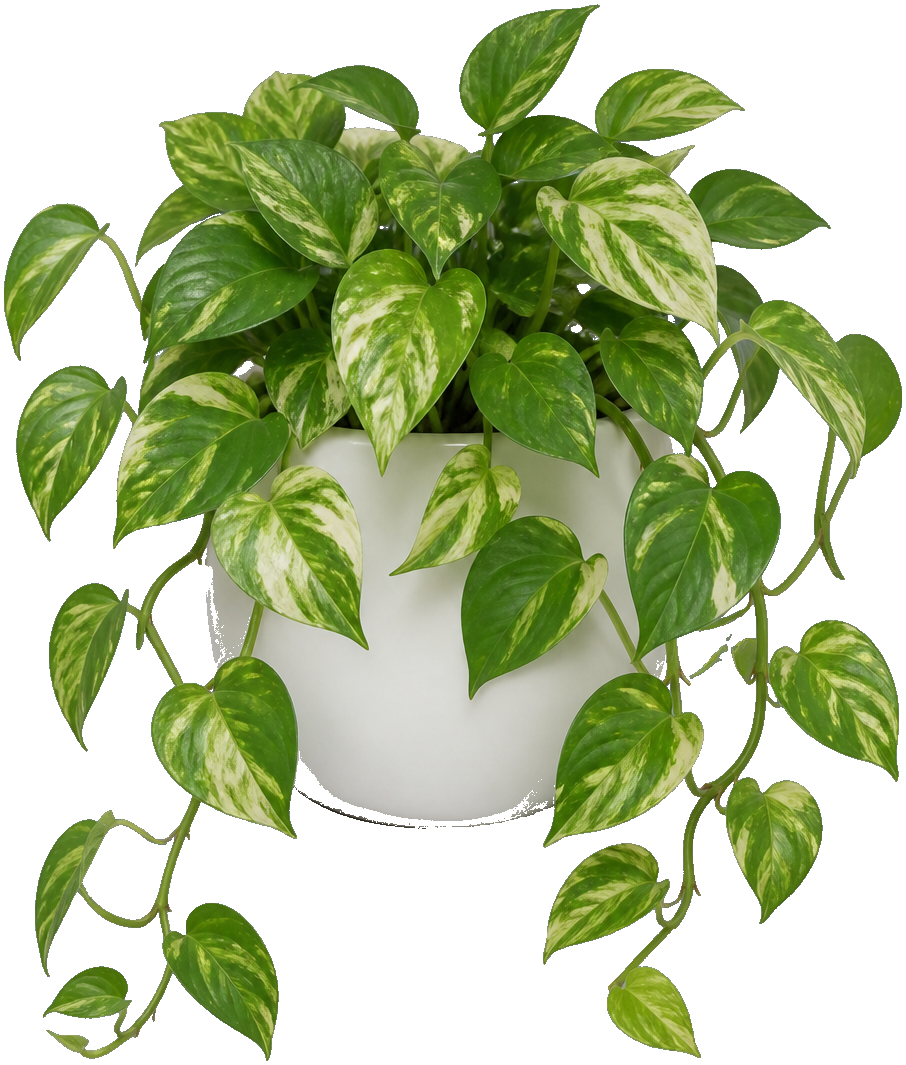
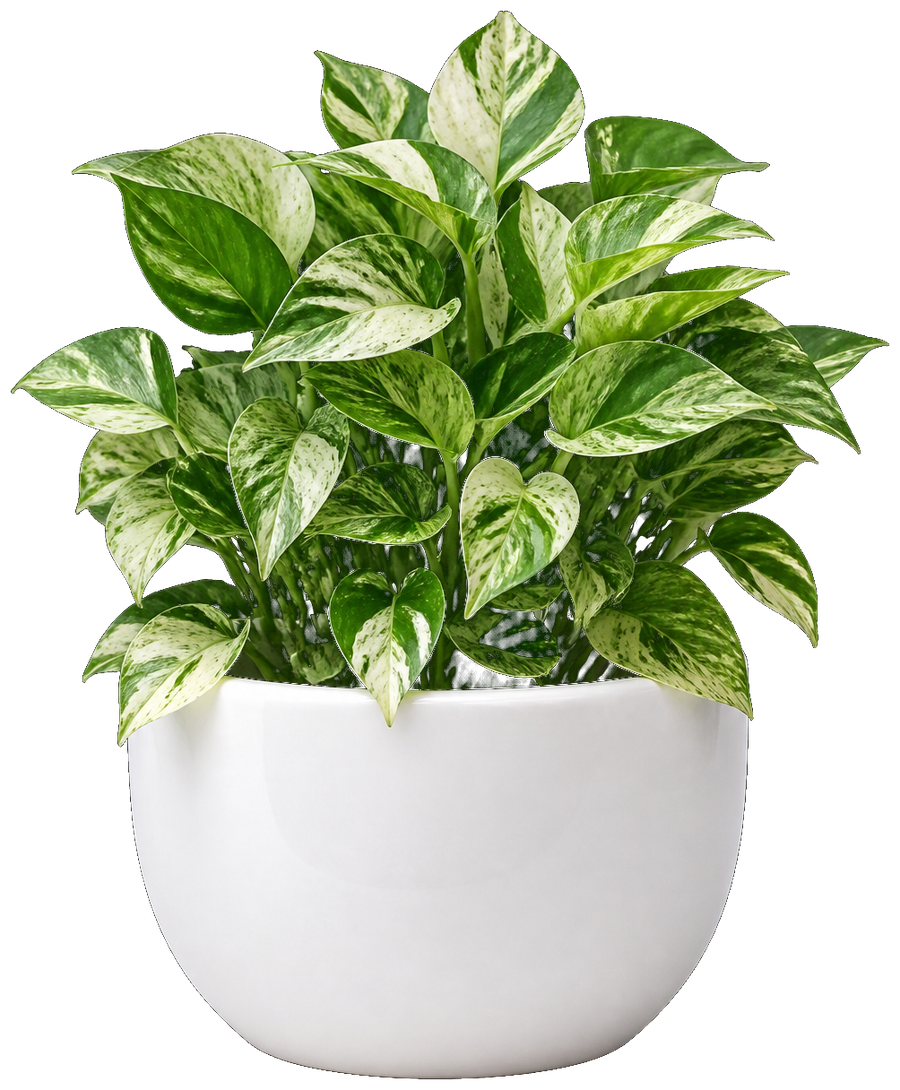
Polish Contact plant pot sizing and mobile nav panel animation with solid background.

diff --git a/src/components/Navbar.css b/src/components/Navbar.css
@@ -74,6 +74,10 @@
   right: 0.55rem;
   height: 1px;
   background: var(--ink);
+  transform-origin: center;
+  transition:
+    transform 0.3s cubic-bezier(0.22, 1, 0.36, 1),
+    top 0.3s cubic-bezier(0.22, 1, 0.36, 1);
 }
 
 .nav__toggle span:first-child {
@@ -102,43 +106,91 @@
   .nav__links {
     position: fixed;
     inset: var(--nav-h) 0 0;
+    z-index: 1;
     flex-direction: column;
     justify-content: flex-start;
-    gap: 0.7rem;
-    padding: 1.25rem 1.1rem 2rem;
-    background: #f5f5f5;
+    align-items: stretch;
+    gap: 0;
+    padding: 0.35rem 0 1.75rem;
+    /* Solid opaque panel — do not fade panel opacity (keeps bg non-transparent) */
+    background-color: var(--surface);
+    background-image: none;
     border-top: 1px solid var(--line);
-    box-shadow: inset 0 1px 0 rgba(255, 255, 255, 0.7);
-    transform: translateY(-8px);
-    opacity: 0;
+    box-shadow: var(--shadow);
+    transform: translateY(-0.75rem);
     pointer-events: none;
     visibility: hidden;
+    transition:
+      transform 0.34s cubic-bezier(0.22, 1, 0.36, 1),
+      visibility 0s linear 0.34s;
   }
 
   .nav__links--open {
-    transform: none;
-    opacity: 1;
+    transform: translateY(0);
     pointer-events: auto;
     visibility: visible;
+    transition:
+      transform 0.38s cubic-bezier(0.22, 1, 0.36, 1),
+      visibility 0s linear 0s;
   }
 
   .nav__link {
     width: 100%;
-    padding: 1rem 1.1rem;
-    border: 1px solid var(--line);
+    padding: 1rem 1.25rem;
+    border: 0;
     border-bottom: 1px solid var(--line);
     border-radius: 0;
-    background: #ffffff;
+    background: transparent;
     color: var(--ink);
     font-size: 1rem;
     font-weight: 500;
     letter-spacing: 0.06em;
-    box-shadow: 0 8px 18px rgba(40, 40, 40, 0.05);
+    box-shadow: none;
+    opacity: 0;
+    transform: translateY(0.45rem);
+    transition:
+      opacity 0.26s ease,
+      transform 0.3s cubic-bezier(0.22, 1, 0.36, 1),
+      background 0.2s ease,
+      color 0.2s ease;
+  }
+
+  .nav__links--open .nav__link {
+    opacity: 1;
+    transform: translateY(0);
+  }
+
+  /* Delay only enter opacity/transform — keep hover colors immediate */
+  .nav__links--open .nav__link:nth-child(1) {
+    transition-delay: 0.04s, 0.04s, 0s, 0s;
+  }
+
+  .nav__links--open .nav__link:nth-child(2) {
+    transition-delay: 0.08s, 0.08s, 0s, 0s;
+  }
+
+  .nav__links--open .nav__link:nth-child(3) {
+    transition-delay: 0.12s, 0.12s, 0s, 0s;
+  }
+
+  .nav__links--open .nav__link:nth-child(4) {
+    transition-delay: 0.16s, 0.16s, 0s, 0s;
   }
 
   .nav__link:hover,
   .nav__link:active {
-    background: #f0f0f0;
+    background: var(--bg-soft);
     color: var(--ink);
+  }
+}
+
+@media (prefers-reduced-motion: reduce) {
+  .nav__toggle span,
+  .nav__links,
+  .nav__links--open,
+  .nav__link,
+  .nav__links--open .nav__link {
+    transition-duration: 0.01ms !important;
+    transition-delay: 0s !important;
   }
 }

diff --git a/src/components/Navbar.tsx b/src/components/Navbar.tsx
@@ -27,6 +27,15 @@ export function Navbar() {
     }
   }, [open])
 
+  useEffect(() => {
+    if (!open) return
+    const onKeyDown = (event: KeyboardEvent) => {
+      if (event.key === 'Escape') setOpen(false)
+    }
+    window.addEventListener('keydown', onKeyDown)
+    return () => window.removeEventListener('keydown', onKeyDown)
+  }, [open])
+
   return (
     <header className={`nav ${scrolled ? 'nav--scrolled' : ''}`}>
       <div className="container nav__inner">
@@ -39,13 +48,18 @@ export function Navbar() {
           type="button"
           aria-label={open ? 'Close menu' : 'Open menu'}
           aria-expanded={open}
+          aria-controls="primary-nav"
           onClick={() => setOpen((v) => !v)}
         >
           <span />
           <span />
         </button>
 
-        <nav className={`nav__links ${open ? 'nav__links--open' : ''}`} aria-label="Primary">
+        <nav
+          id="primary-nav"
+          className={`nav__links ${open ? 'nav__links--open' : ''}`}
+          aria-label="Primary"
+        >
           {links.map((link) => (
             <a
               key={link.href}

diff --git a/src/components/Contact.css b/src/components/Contact.css
@@ -160,6 +160,7 @@
 .contact__plants--edge::after {
   left: 18%;
   right: 12%;
+  bottom: 0.15rem;
   height: 0.7rem;
 }
 
@@ -208,7 +209,7 @@
 
 .contact__plants--edge {
   left: auto;
-  right: -8.25rem;
+  right: -6.5rem;
   bottom: 0;
   transform: none;
   z-index: 4;
@@ -216,8 +217,10 @@
 }
 
 .contact__pot--edge {
-  width: clamp(8.5rem, 13vw, 12rem);
+  width: clamp(5.5rem, 8.5vw, 7.75rem);
   height: auto;
+  transform: scaleY(1.25);
+  transform-origin: bottom center;
 }
 
 @media (max-width: 900px) {

diff --git a/src/components/PlantPot.tsx b/src/components/PlantPot.tsx
@@ -6,14 +6,14 @@ type PlantPotProps = {
 const sources = {
   leafy: '/plants/left.png?v=leaves',
   round: '/plants/middle.png',
-  trail: '/plants/right.png?v=texture2',
+  trail: '/plants/right.png?v=upright',
   small: '/plants/small.png?v=leaves',
 } as const
 
 const labels = {
   leafy: 'White pot with leafy plant',
   round: 'White pot with round plant',
-  trail: 'White pot with trailing plant',
+  trail: 'White pot with upright plant',
   small: 'White pot with small plant',
 } as const
 
